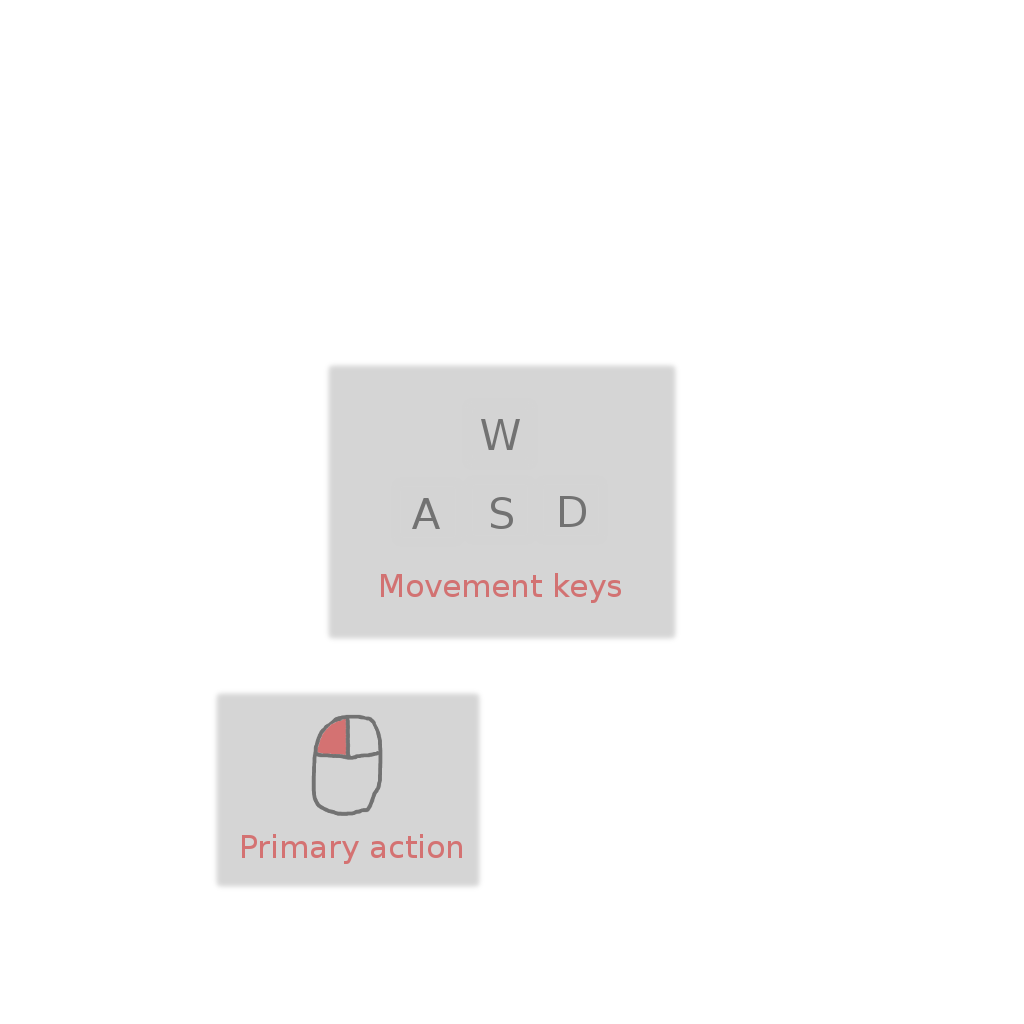
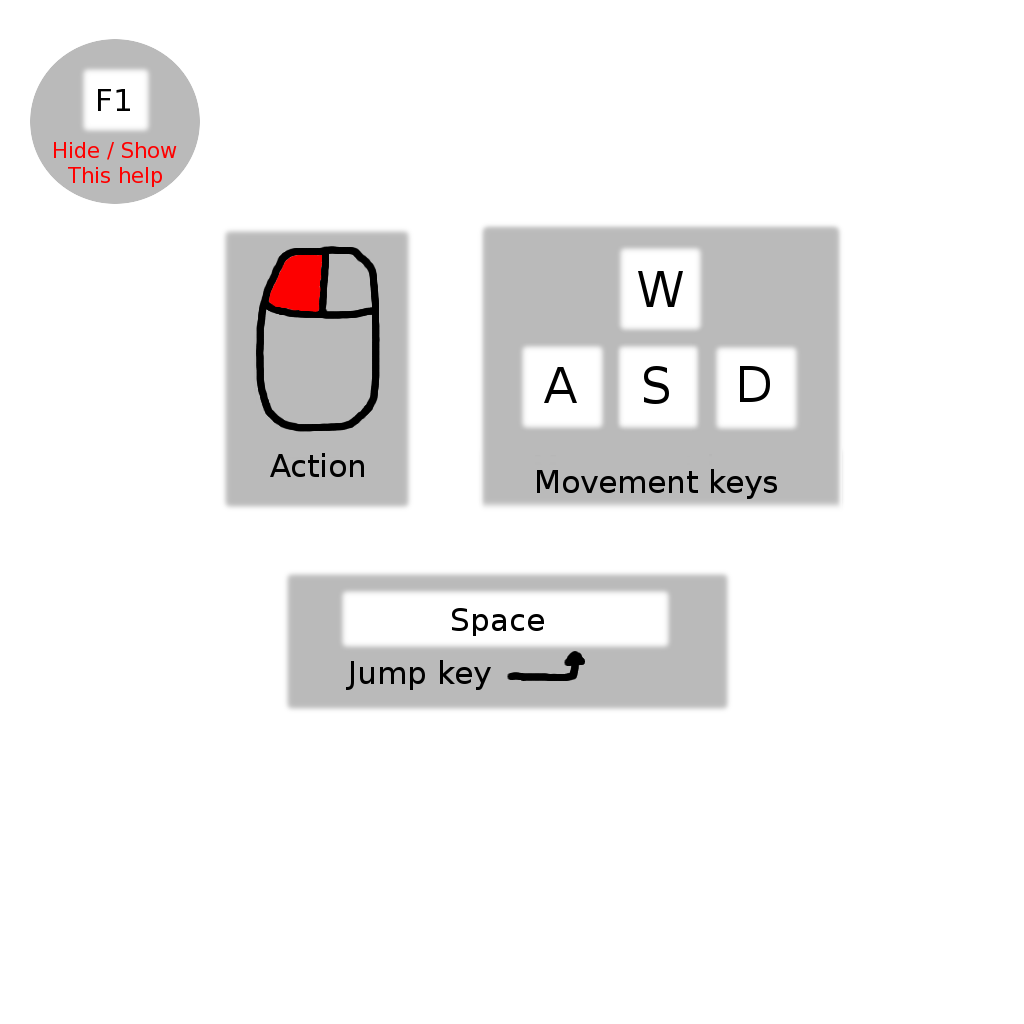
Cleaned up userIO a bit (there's a lot of shit going into keyState, that really should not go there..), and added a help view.

Changed region(s): [[0.1875, 0.2188, 0.8438, 0.875], [0.0312, 0.0312, 0.2188, 0.2188]]

diff --git a/src/graphics/graphics.cpp b/src/graphics/graphics.cpp
@@ -85,6 +85,8 @@ void Graphics::init(Camera& camera)
 {
 	cerr << "Graphics::init()" << endl;
 
+	intVals["HELP"] = 1;
+	
 	OpenGL opengl;
 	shaders.init();
 	
@@ -139,6 +141,7 @@ void Graphics::init(Camera& camera)
 	
 	TextureHandler::getSingleton().createTexture("font", "data/fonts/font2.png");
 	TextureHandler::getSingleton().createTexture("particle", "data/images/particle.png");
+	TextureHandler::getSingleton().createTexture("help_layer", "data/images/help_overlay_dark.png");
 	
 	camera_p->aspect_ratio = float(intVals["RESOLUTION_X"]) / float(intVals["RESOLUTION_Y"]);
 	gluPerspective(camera_p->fov, camera_p->aspect_ratio, camera_p->nearP, camera_p->farP);
@@ -1260,7 +1263,16 @@ void Graphics::renderToBackbuffer()
 	glColor3f(1.0, 1.0, 1.0);
 	
 	drawFullscreenQuad();
-
+	
+	if(intVals["HELP"])
+	{
+		glEnable(GL_BLEND);
+		glBlendFunc(GL_SRC_ALPHA, GL_ONE_MINUS_SRC_ALPHA);
+		TextureHandler::getSingleton().bindTexture(0, "help_layer");
+		drawFullscreenQuad();
+		glDisable(GL_BLEND);
+	}
+	
 	glEnable(GL_DEPTH_TEST);
 }
 

diff --git a/src/userio.cpp b/src/userio.cpp
@@ -59,9 +59,6 @@ int UserIO::getGameInput()
 	if(keystate[SDLK_PAGEDOWN])
 		keyBoard |= 1024;
 	
-	if(keystate[SDLK_F1])
-		keyBoard |= 1<<11;
-	
 	if(keystate[SDLK_F5])
 		keyBoard |= 1<<12;
 	if(keystate[SDLK_F6])
@@ -74,18 +71,6 @@ int UserIO::getGameInput()
 	if(keystate[SDLK_r])
 		keyBoard |= 1<<16;
 	
-	/*
-	if(keystate[SDLK_F9])
-		keyBoard |= 1<<16;
-	if(keystate[SDLK_F10])
-		keyBoard |= 1<<17;
-	*/
-	
-	if(keystate[SDLK_F2])
-		keyBoard |= 1<<18;
-	if(keystate[SDLK_F3])
-		keyBoard |= 1<<19;
-
 	if(keystate[SDLK_1])
 		keyBoard |= 1<<20;
 	if(keystate[SDLK_2])
@@ -96,14 +81,6 @@ int UserIO::getGameInput()
 		keyBoard |= 1<<23;
 	if(keystate[SDLK_5])
 		keyBoard |= 1<<24;
-/*
-	if(keystate[SDLK_w])
-		keyBoard |= 1<<22;
-	if(keystate[SDLK_s])
-		keyBoard |= 1<<23;
-	if(keystate[SDLK_e])
-		keyBoard |= 1<<24;
-*/
 
 	if(keystate[SDLK_TAB])
 		keyBoard |= 1<<31;

diff --git a/src/game.cpp b/src/game.cpp
@@ -222,7 +222,7 @@ bool Game::client_tick_local()
 	if( (simulRules.currentFrame < simulRules.allowedFrame) )
 	{
 		if( (UnitInput.back().plr_id == SERVER_ID) && (UnitInput.back().frameID != simulRules.currentFrame) )
-			cerr << "ERROR: ServerCommand for frame " << UnitInput.back().frameID << " encountered at frame " << simulRules.currentFrame << endl;
+			cerr << "WARNING: ServerCommand for frame " << UnitInput.back().frameID << " encountered at frame " << simulRules.currentFrame << endl;
 		return true;
 	}
 
@@ -252,7 +252,6 @@ void Game::process_received_game_input()
 		if(tmp.plr_id == SERVER_ID)
 		{
 			cerr << "WARNING: Someone claims to be server. This should never happen." << endl;
-			// handleServerMessage(tmp);
 			continue;
 		}
 		

diff --git a/src/dedicated/dedicated.cpp b/src/dedicated/dedicated.cpp
@@ -352,7 +352,7 @@ void DedicatedServer::simulateWorldFrame()
 {
 	if(!UnitInput.empty())
 		if( (UnitInput.back().plr_id == SERVER_ID) && (UnitInput.back().frameID != simulRules.currentFrame) )
-			cerr << "ERROR: ServerCommand for frame " << UnitInput.back().frameID << " encountered at frame " << simulRules.currentFrame << endl;
+			cerr << "WARNING: ServerCommand for frame " << UnitInput.back().frameID << " encountered at frame " << simulRules.currentFrame << endl;
 	
 	fps_world.insert();
 	

diff --git a/src/localplayer.cpp b/src/localplayer.cpp
@@ -341,6 +341,14 @@ bool Localplayer::handleClientLocalInput()
 	
 	if(key == "return")
 		client_input_state ^= 2;
+	else if(key == "f1")
+		view->intVals["HELP"] ^= 1;
+	else if(key == "f2")
+		visualworld.camera.setMode(Camera::THIRD_PERSON);
+	else if(key == "f3")
+		visualworld.camera.setMode(Camera::FIRST_PERSON);
+	else if(key == "f4")
+		visualworld.camera.setMode(Camera::STATIC);
 	else if(key == "f11")
 		view->toggleFullscreen();
 	else if(key == "f10")

diff --git a/src/graphics/camera.cpp b/src/graphics/camera.cpp
@@ -163,21 +163,6 @@ void Camera::updateInput(int keystate)
 			currentTarget   -= delta;
 		}
 	}
-
-	if(keystate & 1 << 18)
-	{
-		setMode(Camera::THIRD_PERSON);
-	}
-	if(keystate & 1 << 19)
-	{
-		setMode(Camera::FIRST_PERSON);
-	}
-	if(keystate & 1 << 11)
-	{
-		Vec3 position = getPosition();
-		setMode(Camera::STATIC);
-		currentPosition = position;
-	}
 }
 
 void Camera::fpsTick()

diff --git a/src/main/main.cpp b/src/main/main.cpp
@@ -85,7 +85,7 @@ bool main_loop(Localplayer& master, Menu& menu, HasProperties& menuOptions)
 			in_menu = true;
 			master.startMusic(menuOptions.strVals["MENU_MUSIC"]);
 			
-			// must set client state here I guess.
+			// at least if server disconnects us, this is the only place where reset is called.
 			cerr << "did reset get called before this?" << endl;
 			master.reset();
 		}

diff --git a/src/unit.h b/src/unit.h
@@ -34,6 +34,7 @@ public:
 		WEAPON3      = 1<<22,
 		WEAPON4      = 1<<23,
 		WEAPON5      = 1<<24,
+		
 		MOUSE_LEFT = 1,
 		MOUSE_RIGHT = 2,
 		
